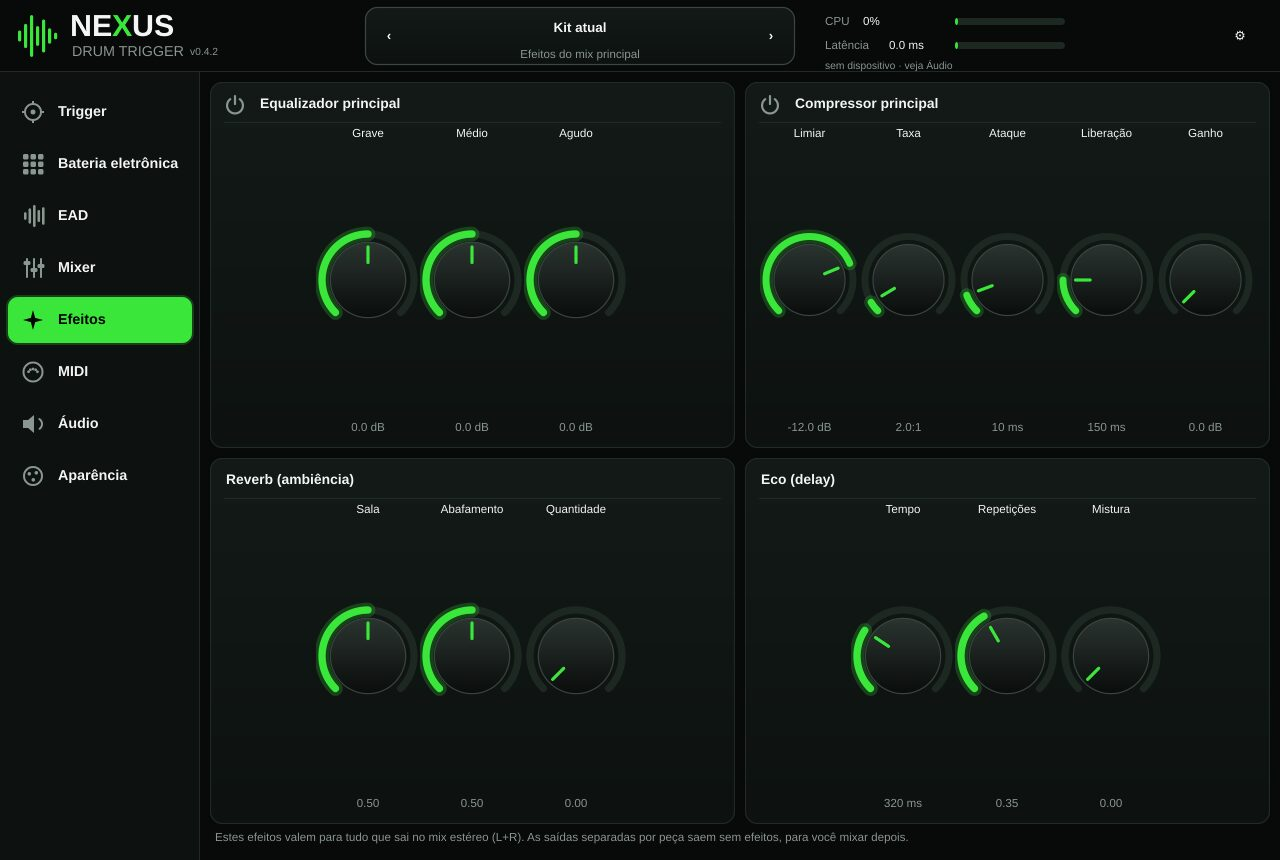
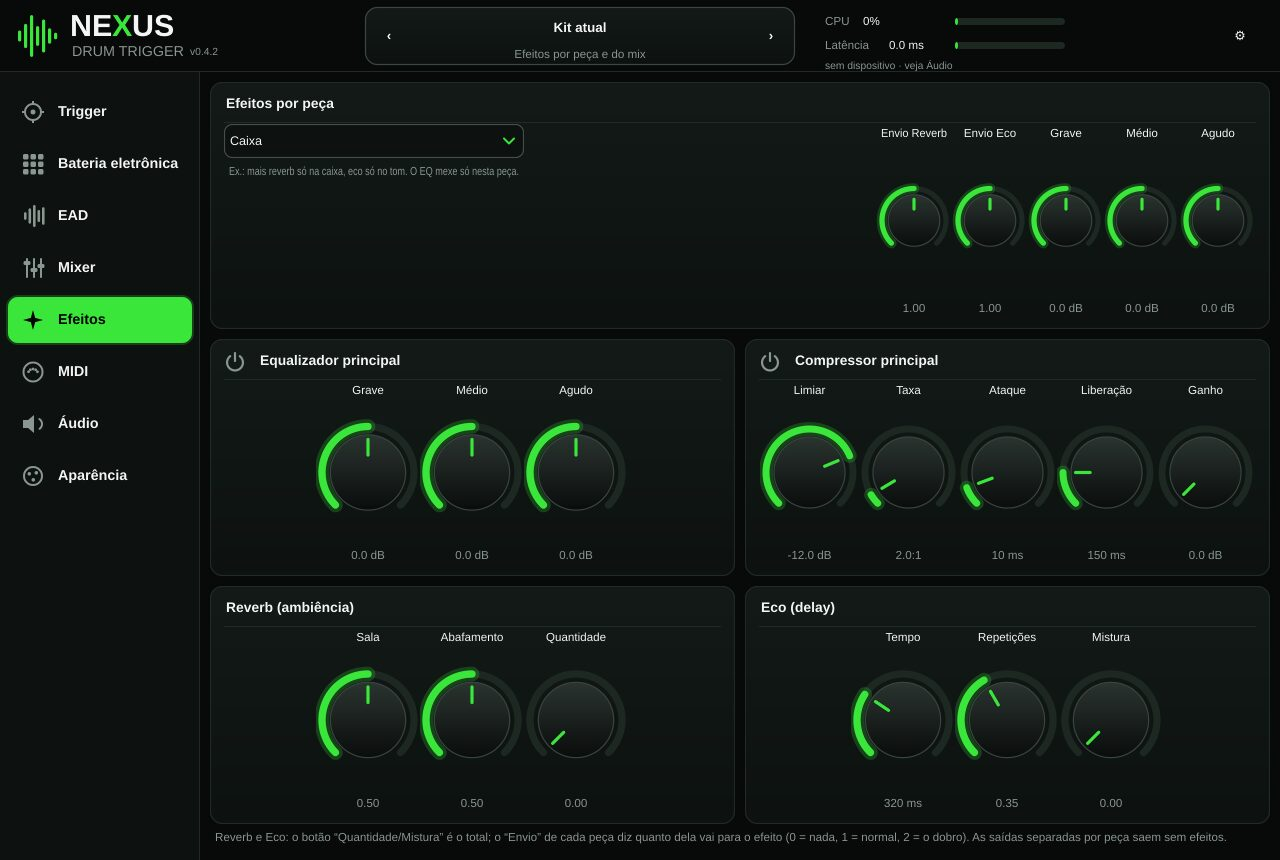
Drum Trigger: efeitos por peça na página
Claude-Session: https://claude.ai/code/session_0141yuF87BXWPeBtiEm95xwz

diff --git a/nexus-drum-trigger/index.html b/nexus-drum-trigger/index.html
@@ -129,7 +129,7 @@
 <div class="cartao"><svg class=ic><use href="#i-micro"/></svg><div><h3>Trigger · 2 canais</h3><p>Dois microfones ou triggers disparam dois sons. Cada um pode sair no estéreo ou separado no L e no R, para controlar na mesa de som.</p></div></div>
 <div class="cartao"><svg class=ic><use href="#i-grade"/></svg><div><h3>Bateria eletrônica · até 8 canais</h3><p>Um módulo virtual: uma entrada por peça e, se quiser, uma saída por peça para gravar separado e mixar depois.</p></div></div>
 <div class="cartao"><svg class=ic><use href="#i-camadas"/></svg><div><h3>EAD · bateria acústica + kit</h3><p>Inspirado no Yamaha EAD10: um par de microfones capta a bateria inteira, o app reconhece cada peça e soma sons prontos ao som acústico.</p></div></div>
-<div class="cartao"><svg class=ic><use href="#i-ajustes"/></svg><div><h3>Mixer, efeitos e MIDI</h3><p>Volume, pan, mudo e solo por peça; reverb, equalizador, compressor e eco; entrada e saída MIDI para módulos e VSTs.</p></div></div>
+<div class="cartao"><svg class=ic><use href="#i-ajustes"/></svg><div><h3>Mixer, efeitos e MIDI</h3><p>Volume, pan, mudo e solo por peça; reverb, eco e EQ com ajuste individual por peça (ex.: mais reverb só na caixa); entrada e saída MIDI.</p></div></div>
 <div class="cartao"><svg class=ic><use href="#i-tabela"/></svg><div><h3>Biblioteca e seus sons</h3><p>Kits prontos para trocar com um toque e importação dos seus próprios arquivos WAV.</p></div></div>
 <div class="cartao"><svg class=ic><use href="#i-info"/></svg><div><h3>Do seu jeito</h3><p>Calibração por peça, botão Aprender (toque a peça para selecioná-la) e cores da interface personalizáveis.</p></div></div>
 </div></section>
